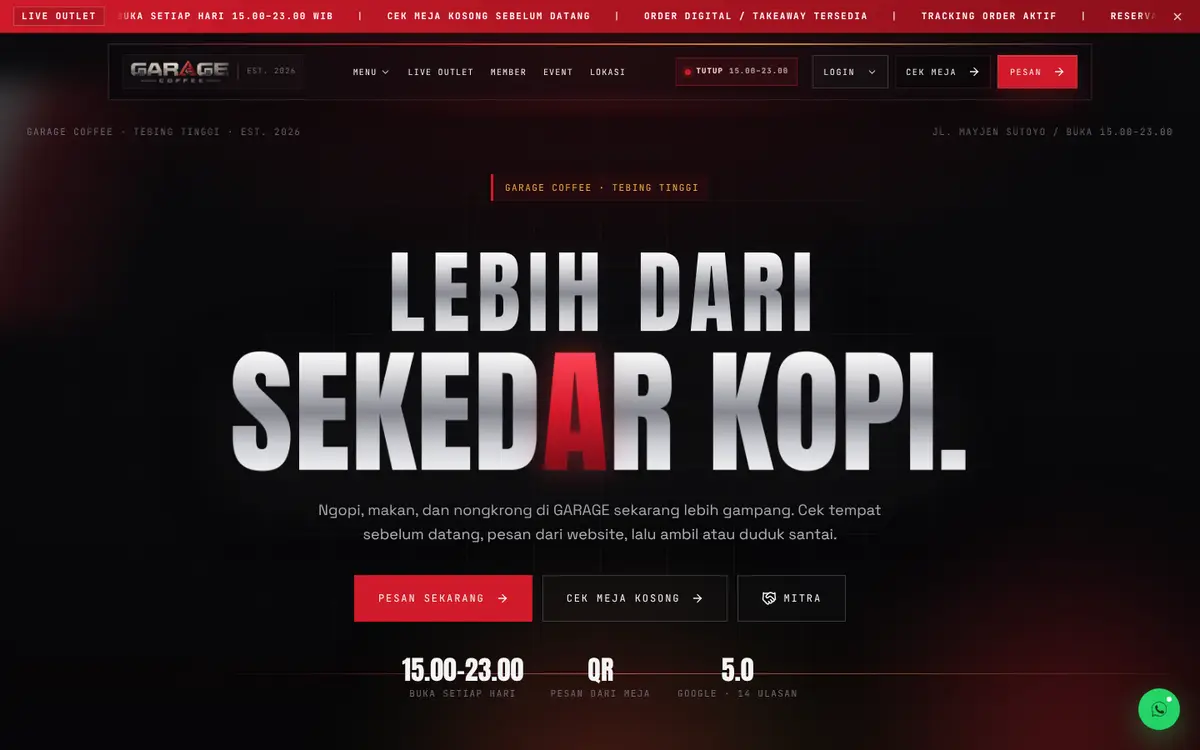
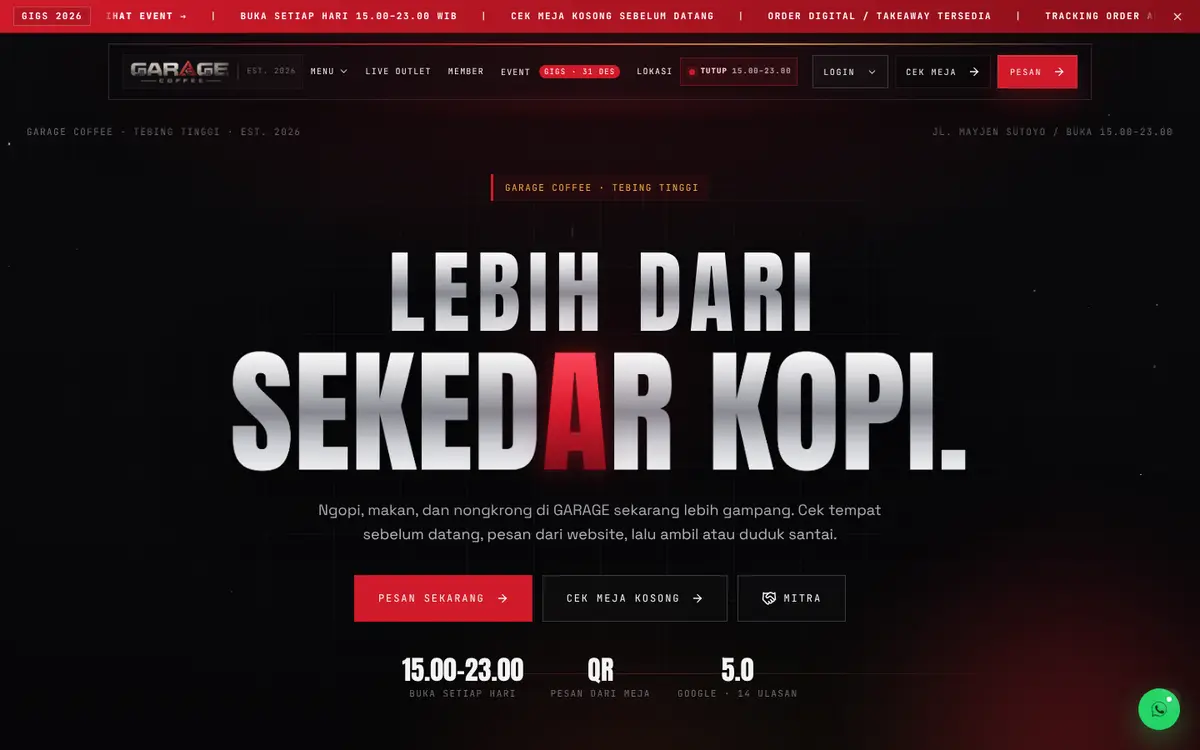
feat(website): screenshot & deskripsi asli 5 proyek portofolio SURYA.dev
Screenshot diambil langsung dari kelima website (1440x900 -> WebP 1200x750,
28-62 KB). Deskripsi & kategori dari meta/hero website masing-masing
(dicek 16 Nov 2026), bukan karangan. Garage Coffee memakai screenshot
garagecoffee.id live.

Claude-Session: https://claude.ai/code/session_014xjBo87W6CE5F5CUYRJJqE

diff --git a/src/components/surya/portfolio/portfolio-data.ts b/src/components/surya/portfolio/portfolio-data.ts
@@ -32,12 +32,46 @@ export const PORTFOLIO_PROJECTS: PortfolioProject[] = [
     category: "Website · Menu digital · Garage OS",
     summary:
       "Website coffee shop dengan menu digital, status meja live, member, dan Garage OS untuk kasir, Bar, Dapur, sampai laporan Owner.",
+    // Screenshot garagecoffee.id live (16 Nov 2026).
     image: { src: "/surya-dev/portfolio/garagecoffee.webp", width: 1200, height: 750 },
   },
-  { id: "suryadev", name: "SURYA.dev", url: "https://suryadev.click/", domain: "suryadev.click" },
-  { id: "killuasurya", name: "KILLUASURYA.TECH", url: "https://killuasurya.tech/", domain: "killuasurya.tech" },
-  { id: "desainajadulu", name: "Desain Aja Dulu", url: "https://www.desainajadulu.com/", domain: "desainajadulu.com" },
-  { id: "tm87farm", name: "TM 87 Farm", url: "https://tm87farm.site/", domain: "tm87farm.site" },
+  // Deskripsi di bawah diambil dari meta/hero website masing-masing (dicek 16 Nov 2026), bukan karangan.
+  {
+    id: "suryadev",
+    name: "SURYA.dev",
+    url: "https://suryadev.click/",
+    domain: "suryadev.click",
+    category: "Portofolio · Desain · Product building",
+    summary: "Portofolio SURYA: desain, motion, 3D, website, dan sistem bisnis.",
+    image: { src: "/surya-dev/portfolio/suryadev.webp", width: 1200, height: 750 },
+  },
+  {
+    id: "killuasurya",
+    name: "KILLUASURYA.TECH",
+    url: "https://killuasurya.tech/",
+    domain: "killuasurya.tech",
+    category: "Digital growth agency",
+    summary: "Digital agency untuk UMKM: digital marketing, konten kreatif, website, dan sistem bisnis.",
+    image: { src: "/surya-dev/portfolio/killuasurya.webp", width: 1200, height: 750 },
+  },
+  {
+    id: "desainajadulu",
+    name: "Desain Aja Dulu",
+    url: "https://www.desainajadulu.com/",
+    domain: "desainajadulu.com",
+    category: "Workshop · Printshop · Branding",
+    summary: "Workshop & printshop di Tebing Tinggi: percetakan, branding usaha, gerobak custom, dan packaging.",
+    image: { src: "/surya-dev/portfolio/desainajadulu.webp", width: 1200, height: 750 },
+  },
+  {
+    id: "tm87farm",
+    name: "TM 87 Farm",
+    url: "https://tm87farm.site/",
+    domain: "tm87farm.site",
+    category: "Peternakan · Company profile",
+    summary: "Peternakan ayam kampung dengan pengelolaan terencana dan pencatatan yang disiplin.",
+    image: { src: "/surya-dev/portfolio/tm87farm.webp", width: 1200, height: 750 },
+  },
 ];
 
 /** Tautan eksternal portofolio selalu dibuka di tab baru tanpa akses ke window Garage. */
